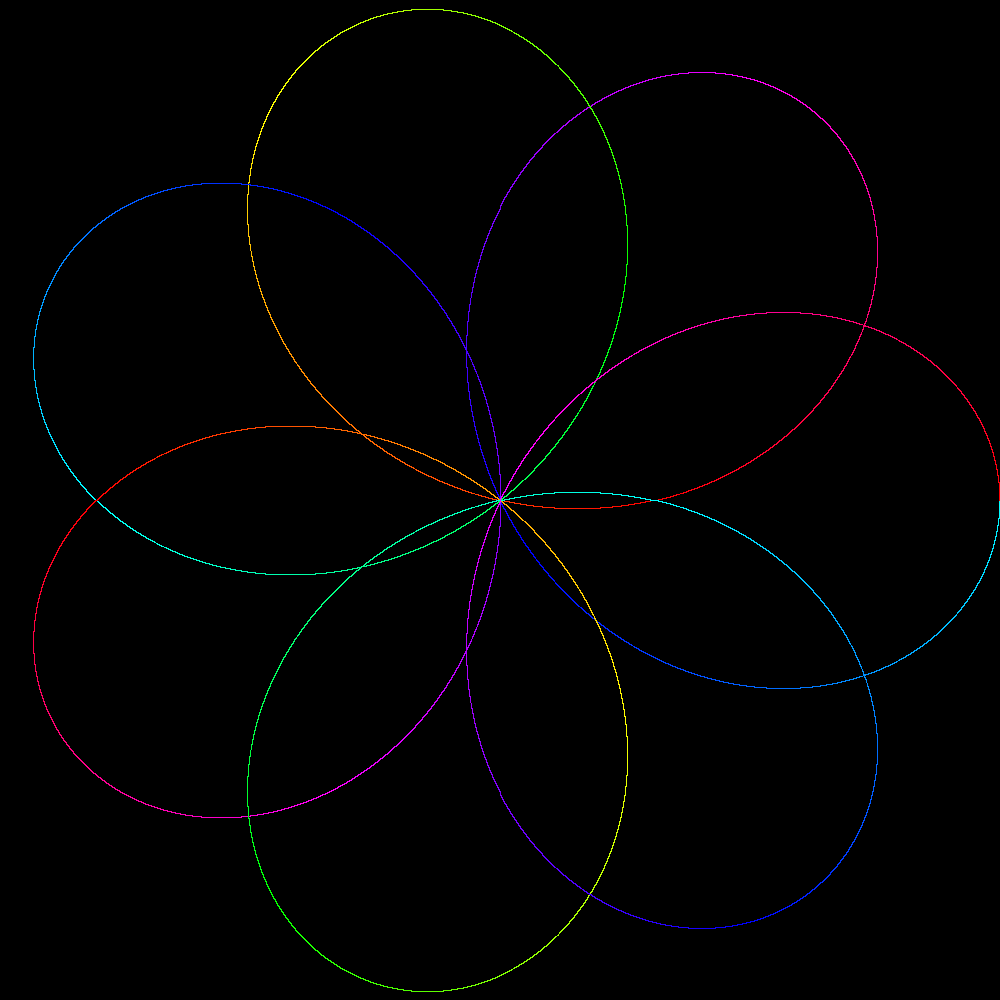
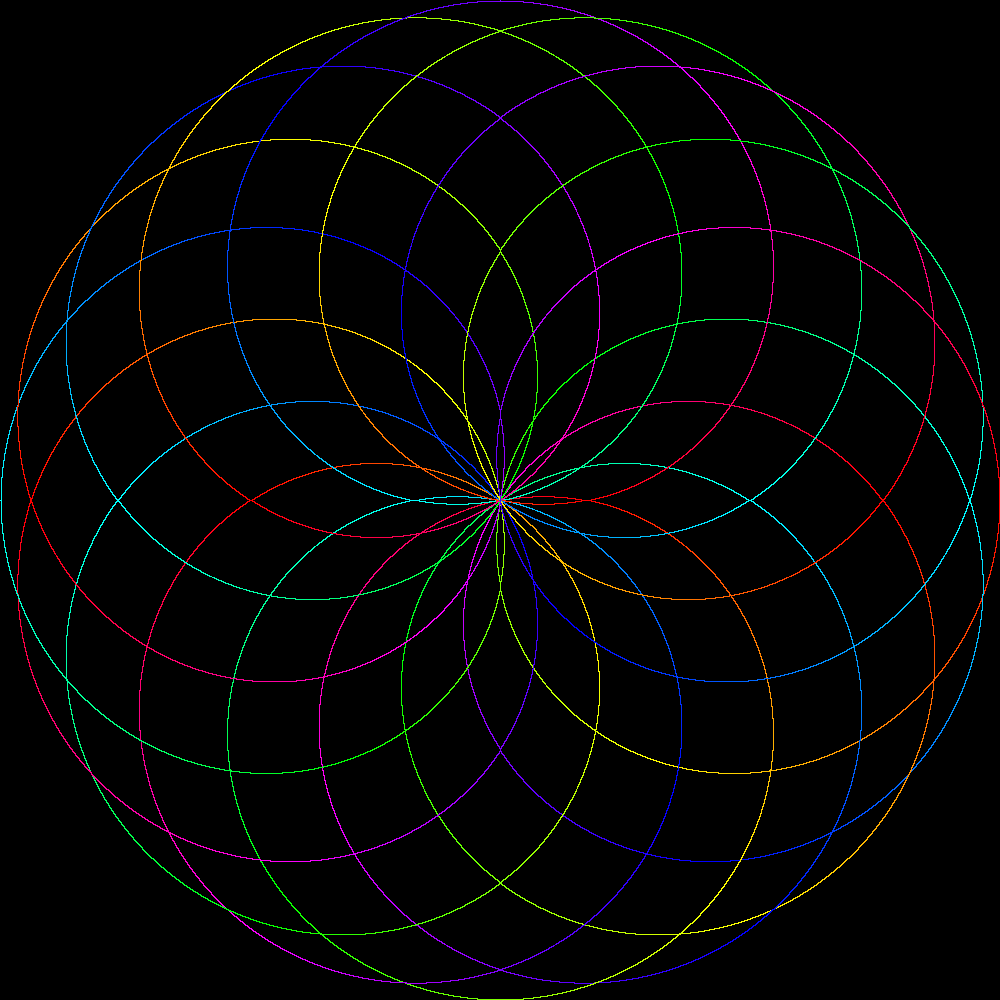
g'night

diff --git a/main.go b/main.go
@@ -34,8 +34,8 @@ func main() {
 
 	ampl = float64(width) * .5
 	//k:=2
-	d := 5.0
-	n := 7.0
+	d := 9.0
+	n := 8.0
 	k = n / d
 
 	for s := 0.0; s < (360.0 * d); s = s + .001 {
